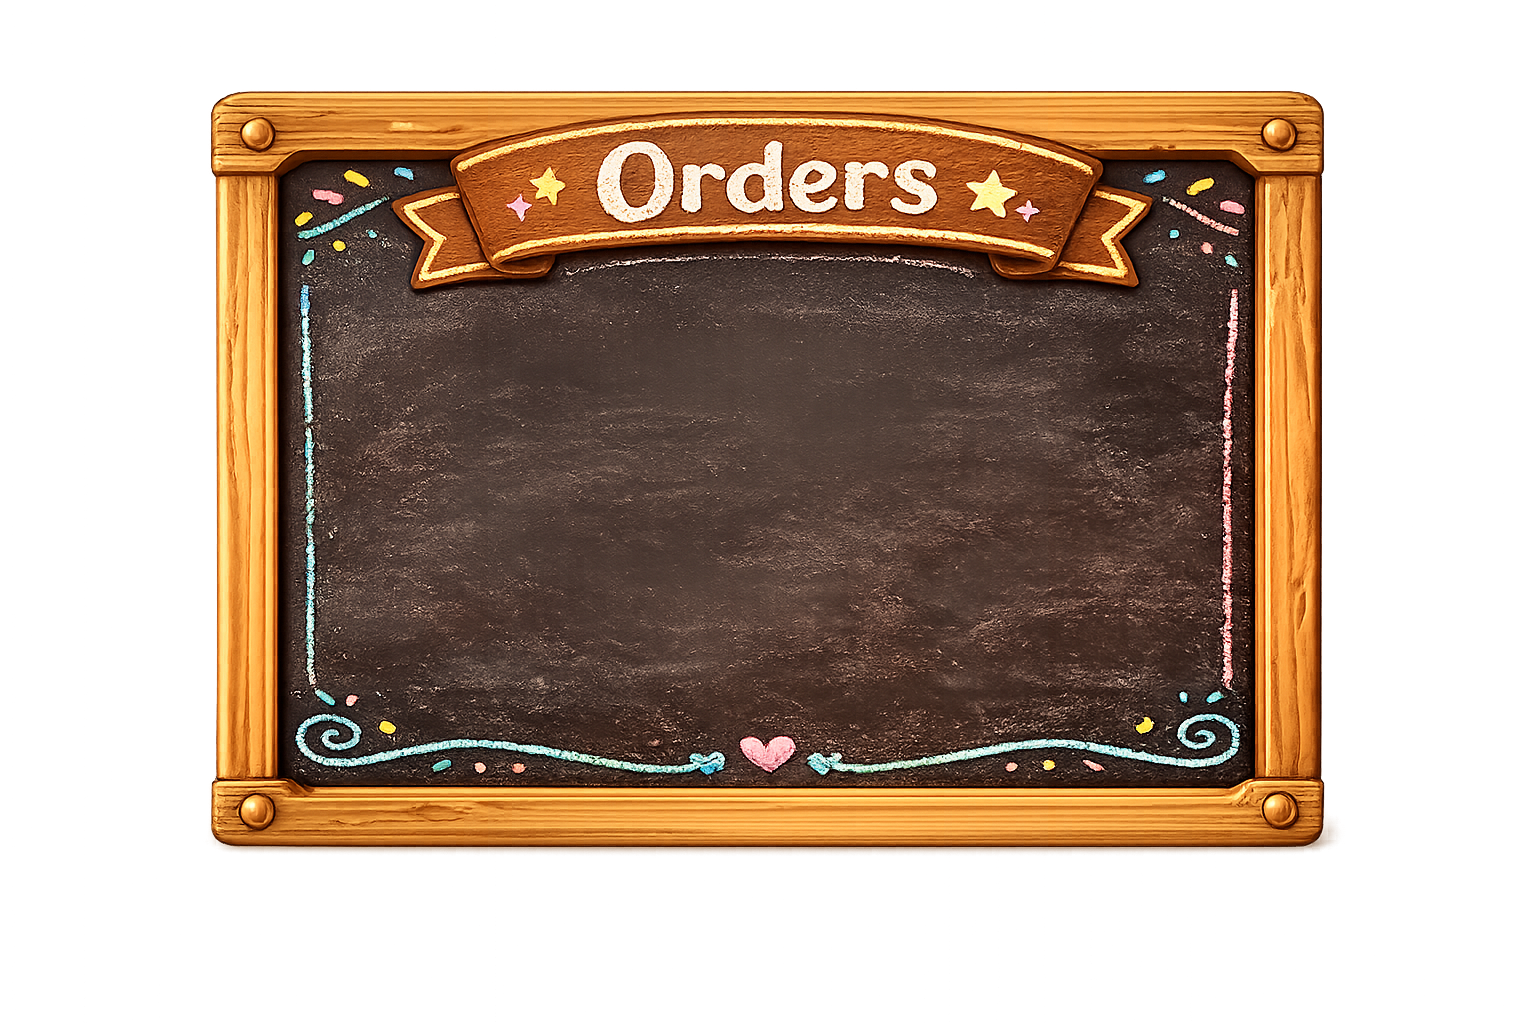
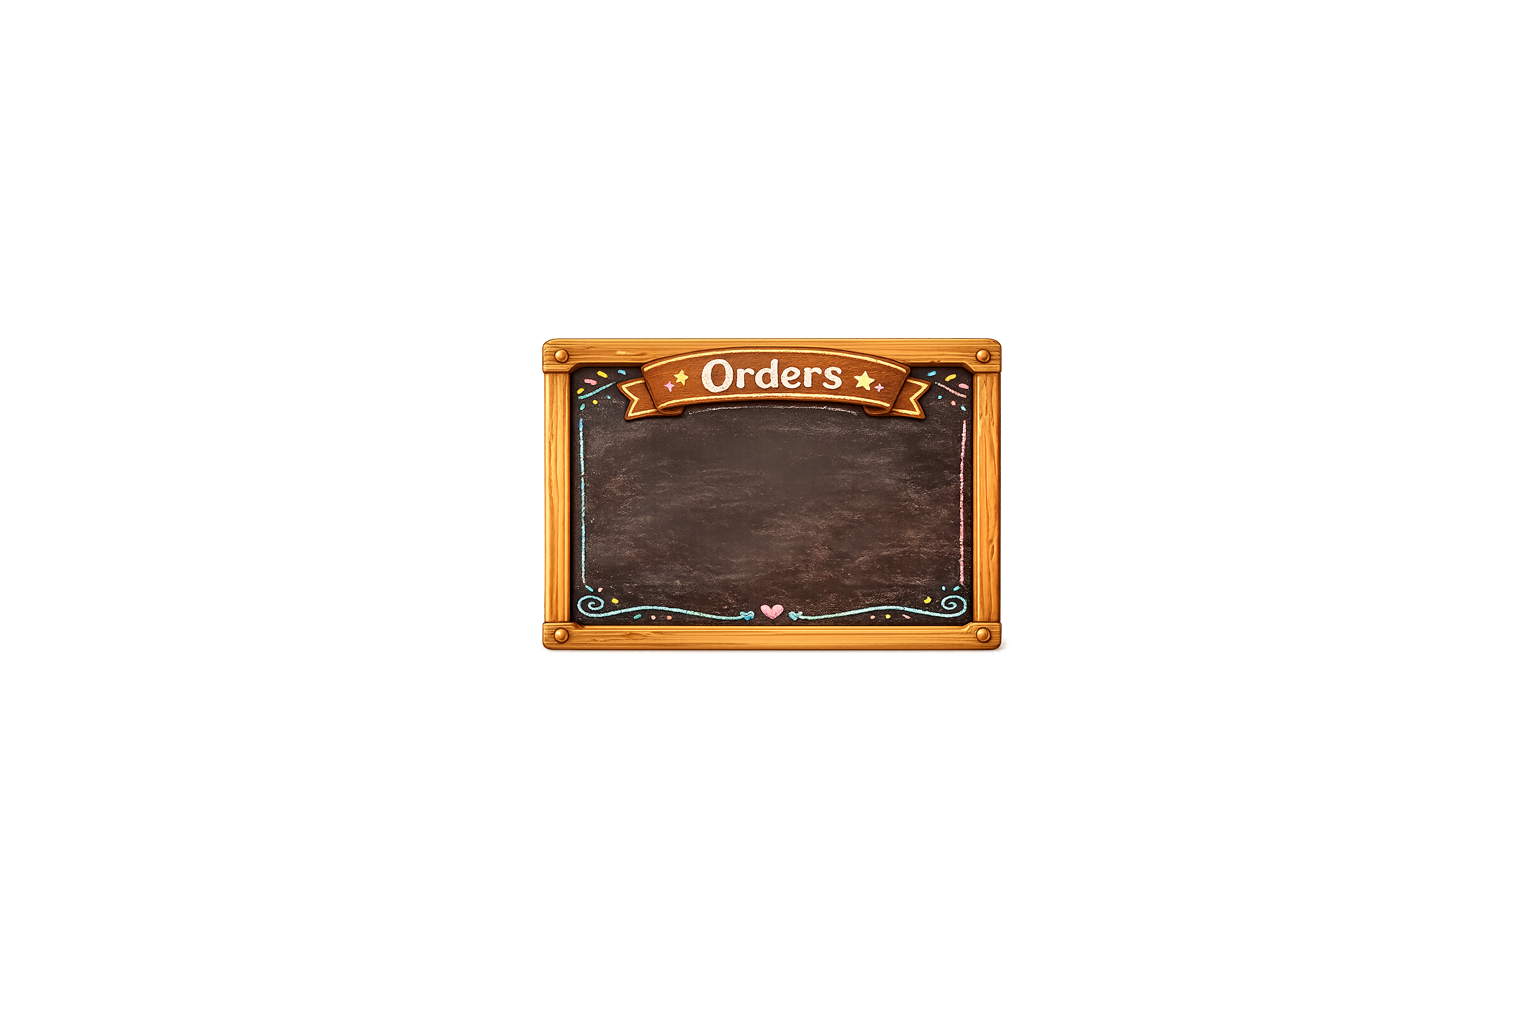
commit
finished add cone function, added in chalkboard for the orders

diff --git a/Assignments/Final Capstone Project/sketch.js b/Assignments/Final Capstone Project/sketch.js
@@ -10,7 +10,7 @@ strawberry, vanilla, cone, cup;
 
 let vertices = [];
 let px, py;
-
+let container = 0;    //0-no container, 1-cone, 2-cup
 
 function preload(){
   bg = loadImage("assets/bg.png");
@@ -34,33 +34,26 @@ function setup() {
   vertices.push(createVector(50, height/2-33));
   vertices.push(createVector(105, height/2+200));
   vertices.push(createVector(0, height/2+205));
-  px = mouseX;
-  py = mouseY;
-  //cx1 = 0;       cy1 = height/2 - 25;
-  //cx2 = cx1+50; cy2 = cy1-8;
-  //cx3 = cx1+105; cy3 = cy1+225;
-  //cx4 = cx1;       cy4 = cy1+230;
+  
 }
+
 
 function draw() {
   image(bg, 0, 0);
-  addCone(cx1,cy1, cx2,cy2, cx3,cy3, cx4,cy4);
+  image(chalkboard, -230, -200);
+  addCone(vertices, mouseX, mouseY);
+  if(container === 1){
+    image(cone, width/2+150, height/2-355);
+  }
+  
 }
 
 
-function addCone(x1,y1, x2,y2, x3,y3, x4,y4){
+function addCone(vertices, px, py){
   noFill();
-  //push()
-  //rotate(348);
-  //translate(-150,-36);
-  //quad(x1,y1, x2,y2, x3,y3, x4,y4);
-  //if(mouseX > x &&
-   // mouseX < x+w &&
-    //mouseY > y &&
-    //mouseY < y+h){
-      
-    //}
-  //pop();
+  noStroke();
+  quad(0, height/2-25, 50, height/2-33, 105, height/2+200, 0, height/2+205);
+
   let collision = false;
   let next = 0;
   for(let current = 0; current < vertices.length; current++){
@@ -69,9 +62,19 @@ function addCone(x1,y1, x2,y2, x3,y3, x4,y4){
     let vc = vertices[current];
     let vn = vertices[next];
 
-    if(((vc.y > py) !== (vn.y > py)) && (px < (vn.x - vc.x)*(py-vc.y)/(vn.y-vc.y) + vc.x)){
-      collision = !collision
+    if(((vc.y >= py && vn.y < py) || (vc.y < py && vn.y >= py)) && (px < (vn.x - vc.x)*(py-vc.y)/(vn.y-vc.y) + vc.x)){
+      collision = !collision;
     }
   }
+  //print(collision);
   return collision;
+}
+
+
+
+
+function mousePressed(){
+  if(addCone(vertices, mouseX, mouseY)){
+    container = 1;
+  }
 }
